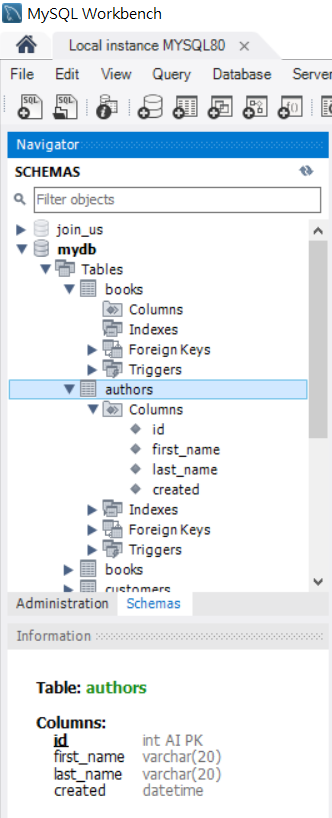
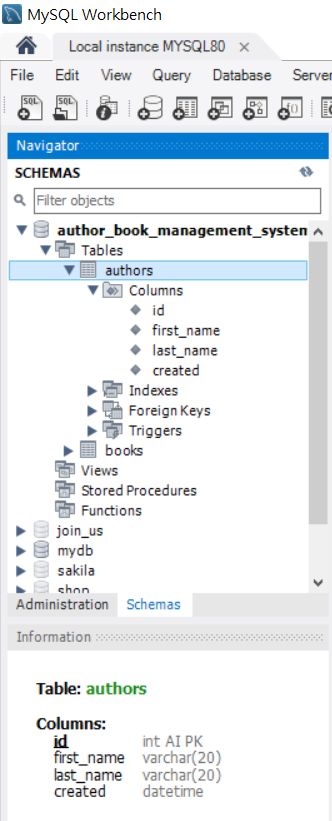
Changed the MySQL database in config.py

diff --git a/api/config/config.py b/api/config/config.py
@@ -8,7 +8,7 @@ class ProductionConfig(Config):
 
 class DevelopmentConfig(Config):
     DEBUG = True
-    SQLALCHEMY_DATABASE_URI =  'mysql+pymysql://root:Aa161616@localhost:3306/mydb'
+    SQLALCHEMY_DATABASE_URI =  'mysql+pymysql://root:Aa161616@localhost:3306/author_book_management_system'
     SQLALCHEMY_ECHO = False
 
 class TestingConfig(Config):
